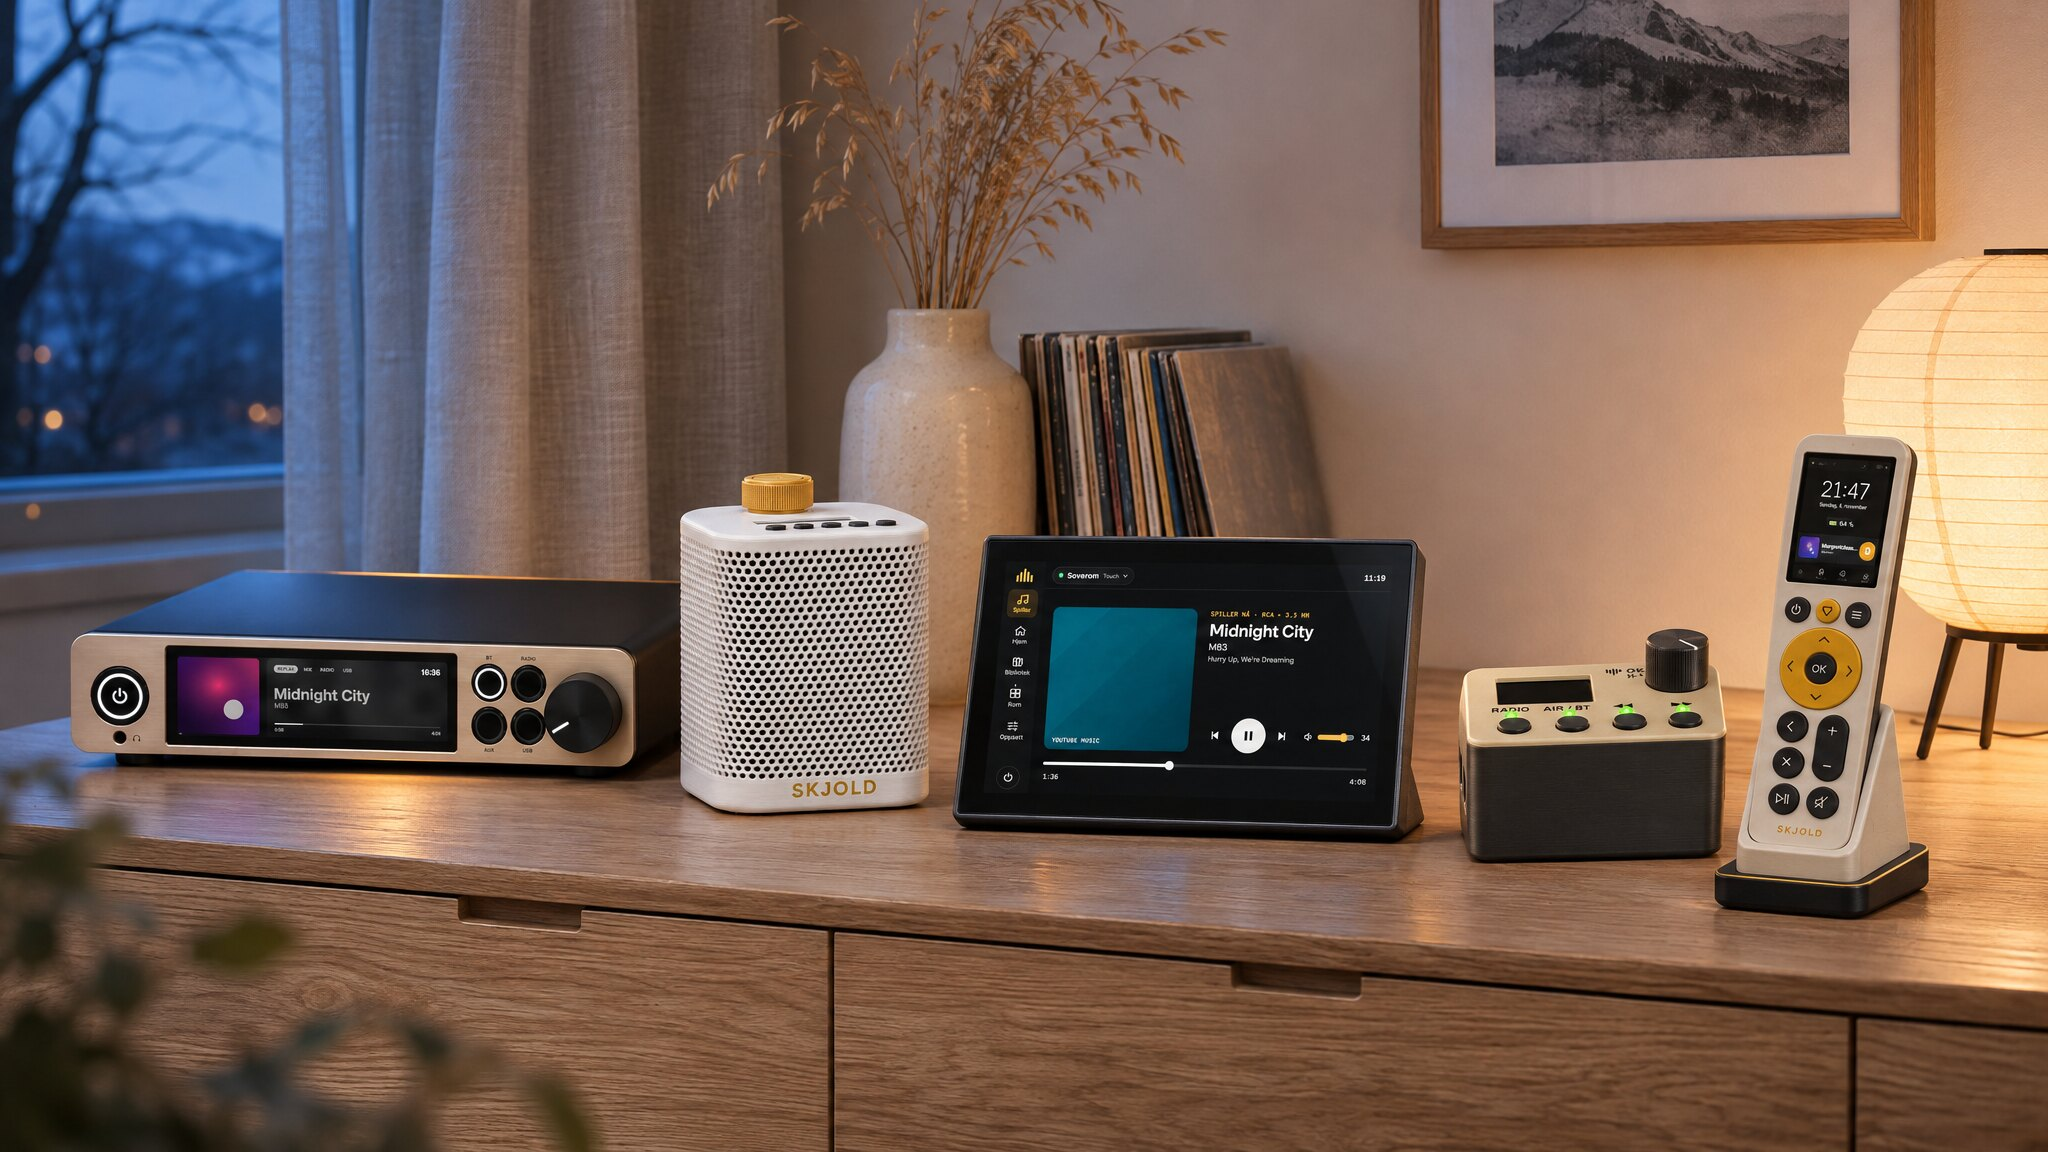
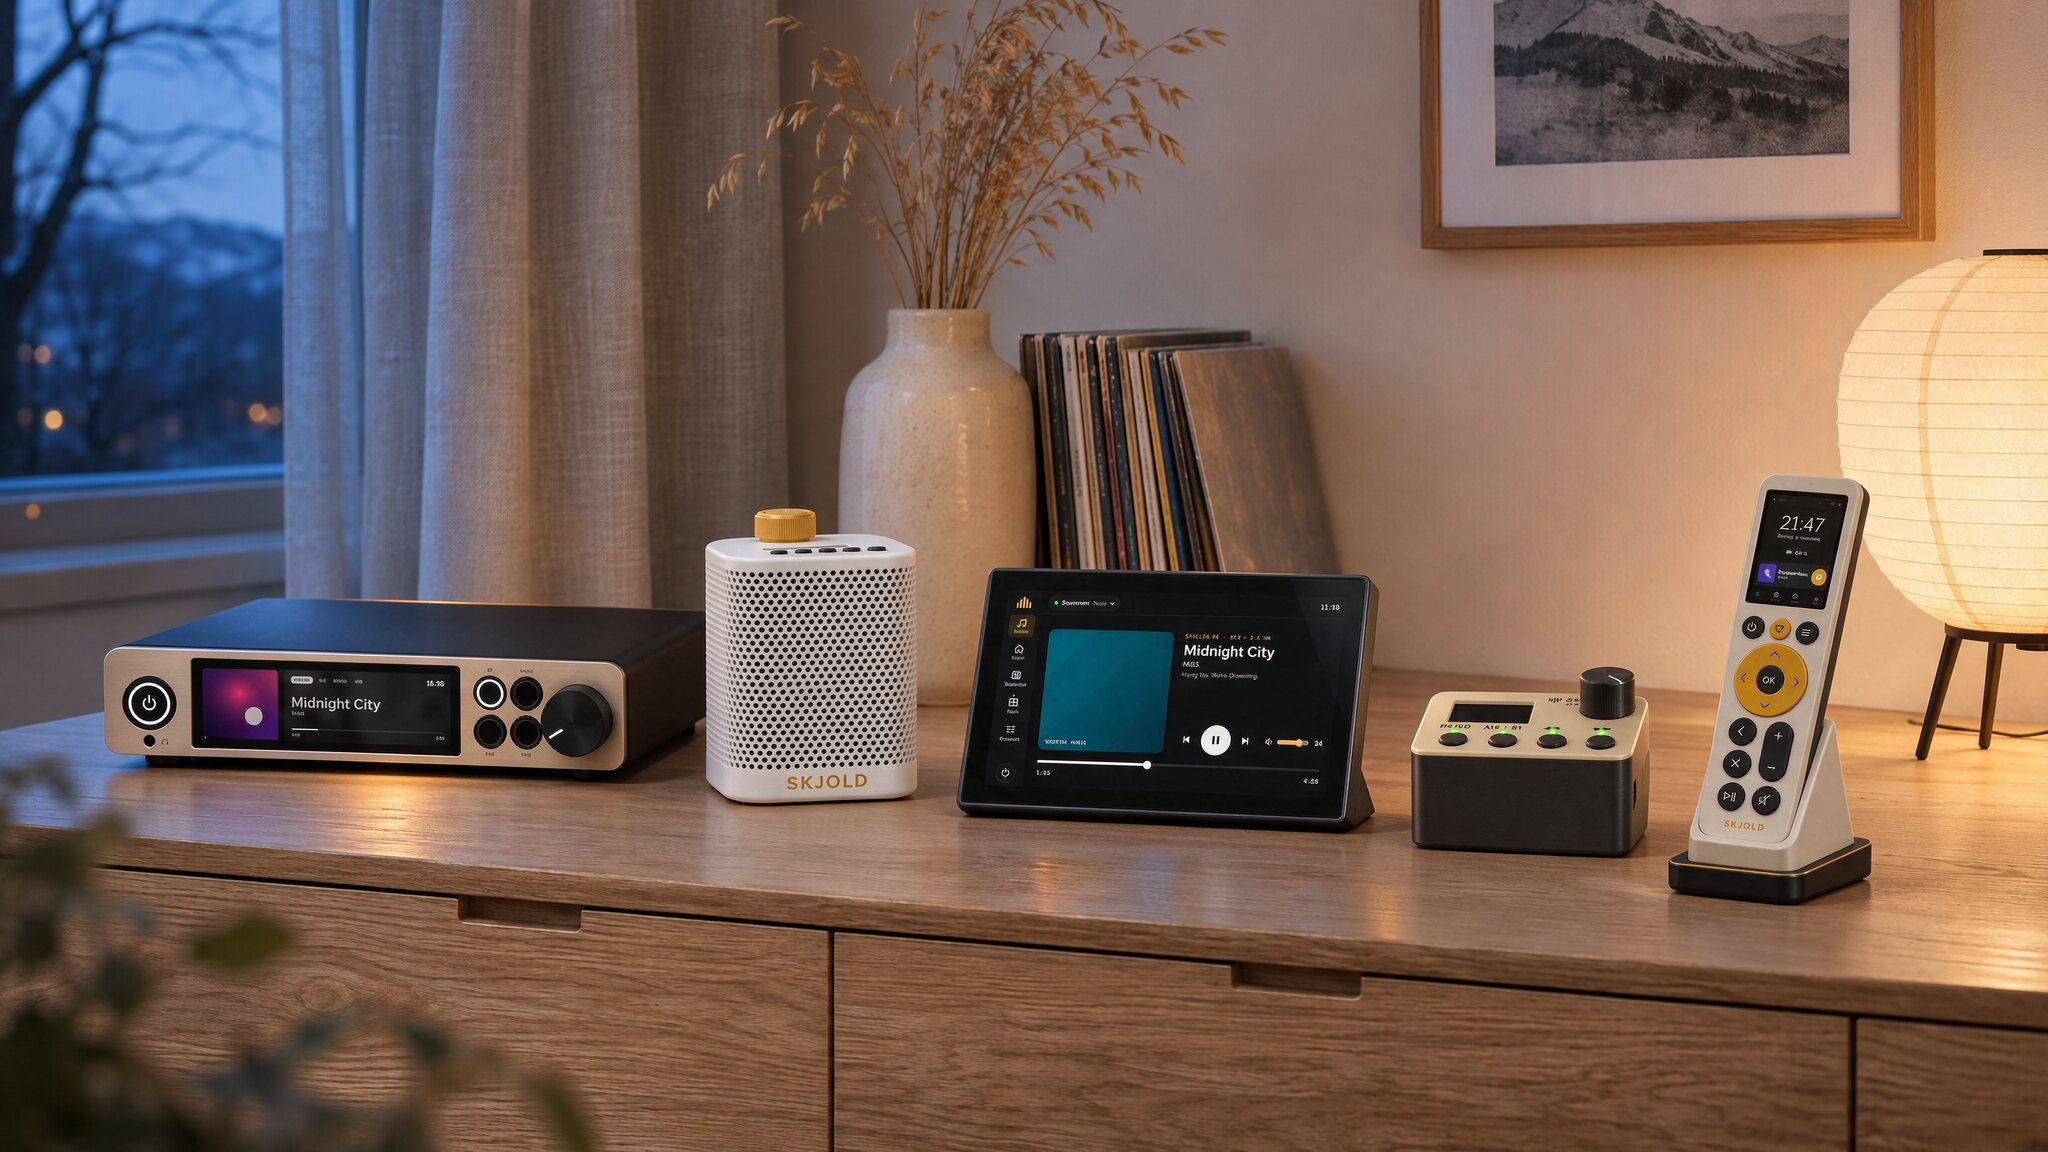
Nettside: familiebildet med riktige proporsjoner
Nytt familiebilde der størrelsene følger målene: Node er lavere enn S1
(91 mm bred mot 224 mm), Røst er halvparten så bred som S1, og Stav i
dokken er litt høyere enn Røst. Punktene i bildet er flyttet etter.

Claude-Session: https://claude.ai/code/session_01FaJKmap7xh2tAyS84khbxV

Changed region(s): [[0.0312, 0.3125, 0.9688, 0.8438]]

diff --git a/skjold/nettside/en/index.html b/skjold/nettside/en/index.html
@@ -54,7 +54,7 @@
   </div>
 </section>
 <figure class="f-scene" data-scene>
-  <div class="f-scene-ramme"><picture><source srcset="/assets/img/familie-studio.webp" type="image/webp"><img src="/assets/img/familie-studio.jpg" alt="The Skjold family on an oak sideboard at blue hour: Skjold S1, Skjold Røst, Skjold Touch, Skjold Node and Skjold Stav in Skjold Dokk" width="2048" height="1152" loading="lazy"></picture><a class="f-punkt" href="/en/s1/" style="--x:18%;--y:56%;--f:0s"><i aria-hidden="true"></i><span>Skjold S1</span></a><a class="f-punkt" href="/en/rost/" style="--x:39%;--y:52%;--f:0.5s"><i aria-hidden="true"></i><span>Skjold Røst</span></a><a class="f-punkt" href="/en/touch/" style="--x:58%;--y:58%;--f:1s"><i aria-hidden="true"></i><span>Skjold Touch</span></a><a class="f-punkt" href="/en/node/" style="--x:77%;--y:64%;--f:1.5s"><i aria-hidden="true"></i><span>Skjold Node</span></a><a class="f-punkt" href="/en/stav/" style="--x:89%;--y:55%;--f:2s"><i aria-hidden="true"></i><span>Skjold Stav</span></a></div>
+  <div class="f-scene-ramme"><picture><source srcset="/assets/img/familie-studio.webp" type="image/webp"><img src="/assets/img/familie-studio.jpg" alt="The Skjold family on an oak sideboard at blue hour: Skjold S1, Skjold Røst, Skjold Touch, Skjold Node and Skjold Stav in Skjold Dokk" width="2048" height="1152" loading="lazy"></picture><a class="f-punkt" href="/en/s1/" style="--x:18%;--y:60%;--f:0s"><i aria-hidden="true"></i><span>Skjold S1</span></a><a class="f-punkt" href="/en/rost/" style="--x:40%;--y:56%;--f:0.5s"><i aria-hidden="true"></i><span>Skjold Røst</span></a><a class="f-punkt" href="/en/touch/" style="--x:57%;--y:60%;--f:1s"><i aria-hidden="true"></i><span>Skjold Touch</span></a><a class="f-punkt" href="/en/node/" style="--x:75%;--y:67%;--f:1.5s"><i aria-hidden="true"></i><span>Skjold Node</span></a><a class="f-punkt" href="/en/stav/" style="--x:88%;--y:59%;--f:2s"><i aria-hidden="true"></i><span>Skjold Stav</span></a></div>
   <figcaption><span>The whole family</span><span>Tap a point</span></figcaption>
 </figure>
 <div class="f-band"><ul><li>AirPlay 2</li><li>Spotify Connect</li><li>Bluetooth</li><li>Internet radio</li><li>Lyrion</li><li>Home Assistant</li><li>Homey</li><li>Rooms in sync</li><li>Open source</li></ul><ul aria-hidden="true"><li>AirPlay 2</li><li>Spotify Connect</li><li>Bluetooth</li><li>Internet radio</li><li>Lyrion</li><li>Home Assistant</li><li>Homey</li><li>Rooms in sync</li><li>Open source</li></ul></div>

diff --git a/skjold/nettside/index.html b/skjold/nettside/index.html
@@ -54,7 +54,7 @@
   </div>
 </section>
 <figure class="f-scene" data-scene>
-  <div class="f-scene-ramme"><picture><source srcset="/assets/img/familie-studio.webp" type="image/webp"><img src="/assets/img/familie-studio.jpg" alt="Skjold-familien på en skjenk i eik i blåtimen: Skjold S1, Skjold Røst, Skjold Touch, Skjold Node og Skjold Stav i Skjold Dokk" width="2048" height="1152" loading="lazy"></picture><a class="f-punkt" href="/s1/" style="--x:18%;--y:56%;--f:0s"><i aria-hidden="true"></i><span>Skjold S1</span></a><a class="f-punkt" href="/rost/" style="--x:39%;--y:52%;--f:0.5s"><i aria-hidden="true"></i><span>Skjold Røst</span></a><a class="f-punkt" href="/touch/" style="--x:58%;--y:58%;--f:1s"><i aria-hidden="true"></i><span>Skjold Touch</span></a><a class="f-punkt" href="/node/" style="--x:77%;--y:64%;--f:1.5s"><i aria-hidden="true"></i><span>Skjold Node</span></a><a class="f-punkt" href="/stav/" style="--x:89%;--y:55%;--f:2s"><i aria-hidden="true"></i><span>Skjold Stav</span></a></div>
+  <div class="f-scene-ramme"><picture><source srcset="/assets/img/familie-studio.webp" type="image/webp"><img src="/assets/img/familie-studio.jpg" alt="Skjold-familien på en skjenk i eik i blåtimen: Skjold S1, Skjold Røst, Skjold Touch, Skjold Node og Skjold Stav i Skjold Dokk" width="2048" height="1152" loading="lazy"></picture><a class="f-punkt" href="/s1/" style="--x:18%;--y:60%;--f:0s"><i aria-hidden="true"></i><span>Skjold S1</span></a><a class="f-punkt" href="/rost/" style="--x:40%;--y:56%;--f:0.5s"><i aria-hidden="true"></i><span>Skjold Røst</span></a><a class="f-punkt" href="/touch/" style="--x:57%;--y:60%;--f:1s"><i aria-hidden="true"></i><span>Skjold Touch</span></a><a class="f-punkt" href="/node/" style="--x:75%;--y:67%;--f:1.5s"><i aria-hidden="true"></i><span>Skjold Node</span></a><a class="f-punkt" href="/stav/" style="--x:88%;--y:59%;--f:2s"><i aria-hidden="true"></i><span>Skjold Stav</span></a></div>
   <figcaption><span>Hele familien</span><span>Trykk på et punkt</span></figcaption>
 </figure>
 <div class="f-band"><ul><li>AirPlay 2</li><li>Spotify Connect</li><li>Blåtann</li><li>Internettradio</li><li>Lyrion</li><li>Home Assistant</li><li>Homey</li><li>Flere rom i takt</li><li>Åpen kildekode</li></ul><ul aria-hidden="true"><li>AirPlay 2</li><li>Spotify Connect</li><li>Blåtann</li><li>Internettradio</li><li>Lyrion</li><li>Home Assistant</li><li>Homey</li><li>Flere rom i takt</li><li>Åpen kildekode</li></ul></div>
